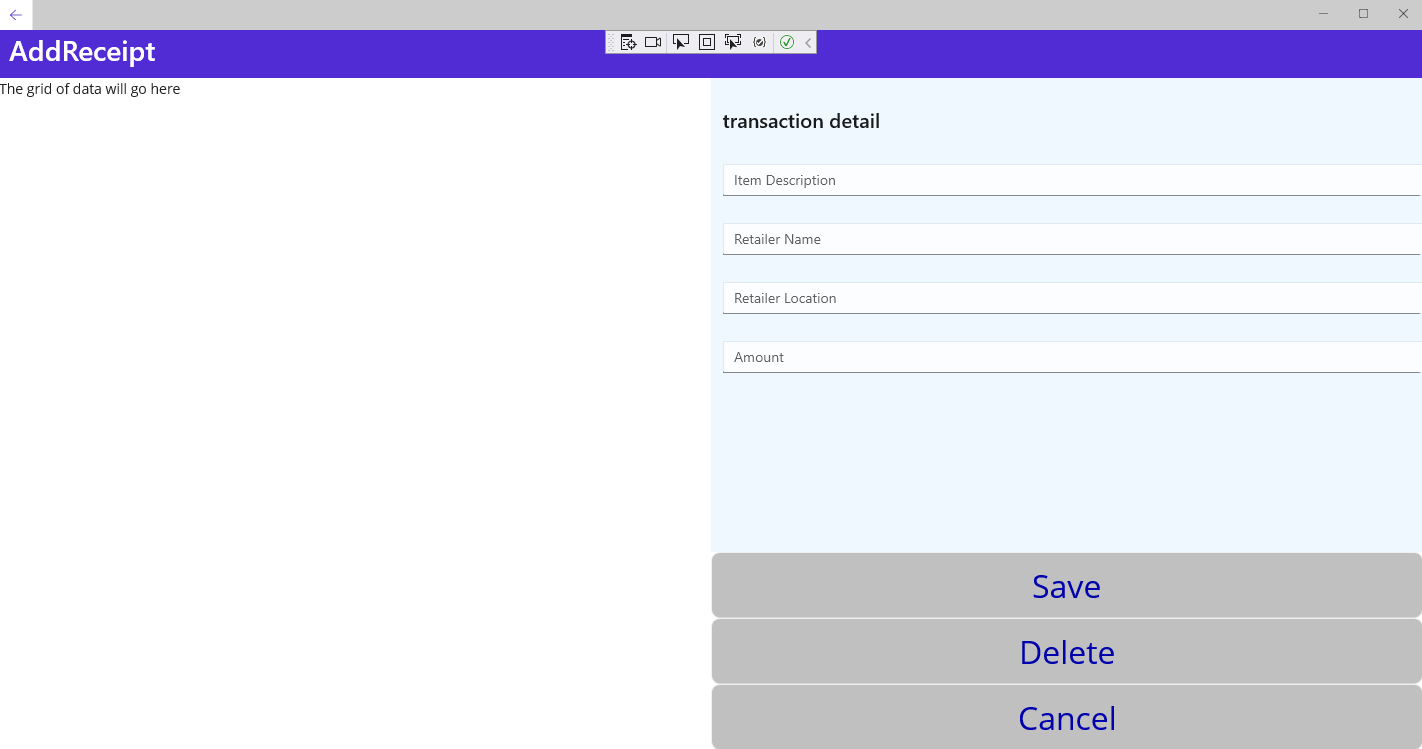
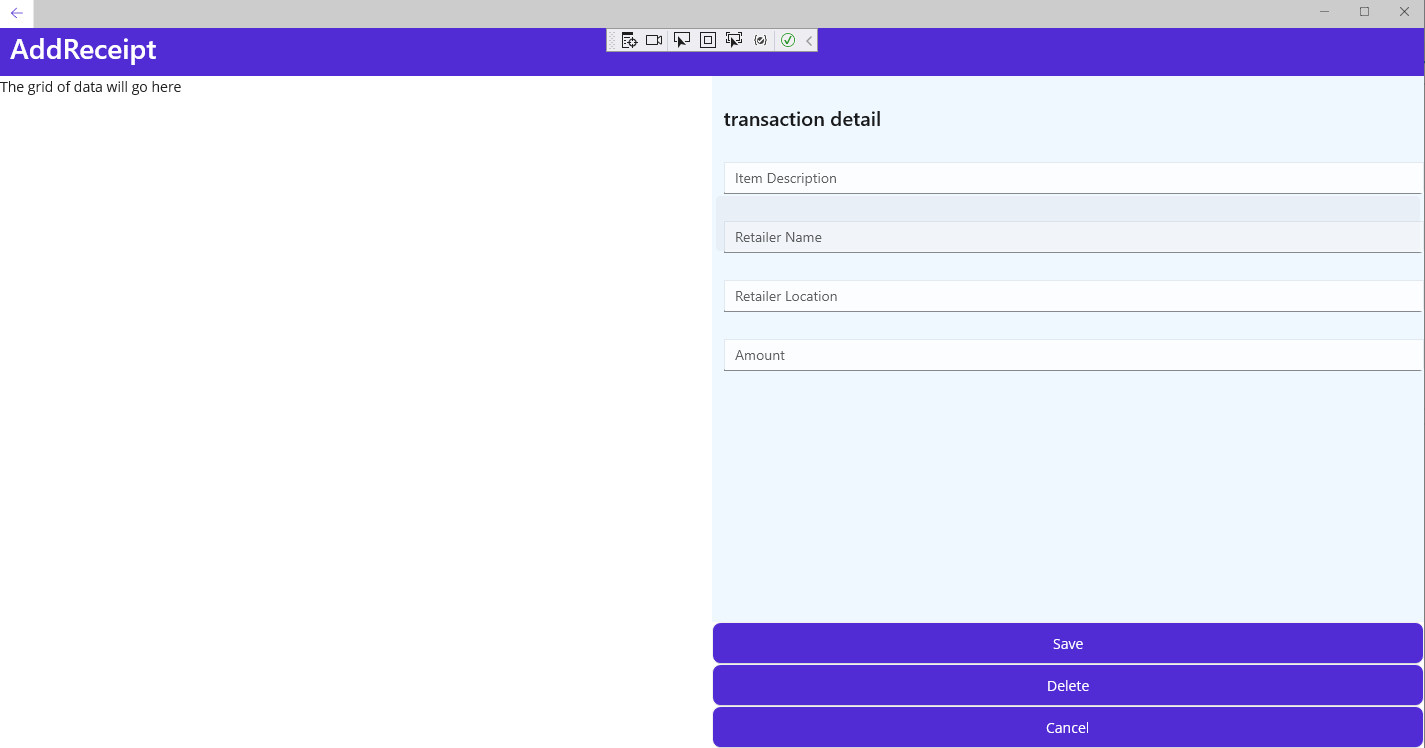
Updated content

diff --git a/notes/styling-net-maui-app.md b/notes/styling-net-maui-app.md
@@ -4,29 +4,33 @@
 
 ## It all starts somewhere
 
-So I want to write a small application using .NET MAUI. The application will run on Windows - I'm not going down the road of getting it to run on Android as yet. I personally feel a .NET MAUI app can be a replacement for a WinForms application. Why not right? So my idea for an application is to capture transaction details from my trips to the shop. I think it could be interesting to build up a dataset of shopping trips over an extended period of time. I am calling it ConsumerAgent.
+As part of the learning process I want to create a small application using .NET MAUI. The application will run on Windows for the time being. .NET MAUI is a great alternative to WinForms or WPF. Why not right? The idea for my application is super simple - create an application to capture the receipts from all my shopping trips to the various retail shops - lets call it ConsumerAgent. I think it could be interesting to build up a dataset of shopping trips over an extended period of time. Imagine seeing the price of bread over a period of time or any other grocery item for that matter.
 
-So to start I'll create two pages in my .NET MAUI app - a page to list the most recent retailer trips as well. The second page will allow me to capture the transactions.
+The application will start off consisting of two pages. The first page will list my most recent retailer trips. The second page will allow me to capture the transaction receipts.
 
 I created a basic wireframe just to aid my planning of the application. It helps thinking up front just a bit. It doesn't have to be pretty to be effective.
 
 ![Wireframe](img/wireframe.png)
 
-The purpose of the application is to learn about the features of .NET MAUI - bit by bit. So as I go along I can create features using specific parts of .NET MAUI. The first thing I would like to look at is styling. I would like to understand the basic syntax of the styling. Styling refers to the font, colours and general appearance of elements in the application. 
+The purpose of building the application is to learn about the features of .NET MAUI - bit by bit. The idea is to build features in the app targeting specific aspects of .NET MAUI. It feels as if there is a lot to learn. The first thing I would like to look at is styling. I would like to understand the basic syntax of the styling. Styling refers to the font, colours and general appearance of elements in the application. Why styling? Well in the learning I did up to this point I found the styling syntax in the XAML as something of interest. It could be a desire to understand the XAML syntax better as well. I also found the concept of the Resource Dictionary interesting. 
 
-## Setting up the pages
+## Setting it up
 
-One of the great features of .NET MAUI is this idea of pages. They kind of look like separate forms - if you were to think of them in WinForms terms. Except they act like pages using navigation. The default .NET MAUI project contains a MainPage to start off with - but you are not restricted to use the MainPage. 
+Before I can even get to the styling we have to shave the yak a bit.
+
+I have to start by creating the pages. One of the great features of .NET MAUI is this idea of pages. They kind of look like separate forms - if you were to think of them in WinForms terms. Except they act like pages in a typical web application - they use actual navigation. You can even pass query parameters to a page. Being able to think in terms of "pages" in a desktop app feels weird. The benefit of using pages also means isolating view logic. 
+
+When you create a .NET MAUI project from the CLI or Visual Studio it contains a MainPage - but you are not restricted to use the MainPage. In fact I decided to delete it. You can define the startup page in the AppShell. In the example below the MainPage is used. 
 
 ![App Shell XAML](img/app-shell-xaml.png)
 
-Just as a sidenote - what is XAML again? Why use it? [The official documentation gives a decent overview](https://docs.microsoft.com/en-us/dotnet/maui/xaml/). But basically as I understand it everything you can do in XAML can be done in code. XAML does allow you to separate the view component of your code from the events or interactions. In your XAML you can define a button - it is then hooked up to a click event on the code behind (.cs) file. In a sense Angular also works in a similar way if you think about it. When you create an Angular component it has two distinct parts - a component file containing the TypeScript (ts) alongside a component file containing the HTML. In the TypeScript file you define all the events for the HTML view. A difference though is that Angular supports directives for loops and conditions - XAML does not. 
+Just as a sidenote - what is XAML again? Why use it? [The official documentation gives a decent overview](https://docs.microsoft.com/en-us/dotnet/maui/xaml/). But basically as I understand it everything you can do in XAML can be done in code. XAML does allow you to separate the view component of your code from the events or interactions. In your XAML you can define a button - it is then hooked up to a click event in the code behind (.cs) file. In a sense Angular also works in a similar way if you think about it. When you create an Angular component it has two distinct parts - a component file containing the TypeScript (ts) alongside a component file containing the HTML. In the TypeScript file you define all the events for the HTML view. A difference though is that Angular supports directives for loops and conditions - XAML does not support any conditional elements. 
 
-In the App Shell you can hook up another page to be the startup page by changing the route. I created two pages, `RetailerTrips` and `AddReceipt`. I want `RetailerTrips` to be the startup page so I can update the route in the App Shell.
+I deleted the default MainPage. I then created two pages, `RetailerTrips` and `AddReceipt`. I want `RetailerTrips` to be the startup page so I updated the route in the App Shell XAML.
 
 ![App Shell XAML](img/app-shell-xaml-1.png)
 
-Layouts are another topic I would love to understand better - but for now I'll just use grid layouts. Its important to understand a grid is a layout component - not a tabular data component. 
+Layouts are another topic I would love to understand better - but for now I'll just use grid layouts. All I know at this stage it is important to understand a grid is a layout component - not a tabular data component. 
 
 ## BindingContext - ICommand
 
@@ -53,3 +57,27 @@ If I run the code I can click on the `Add Transactions` button and it navigates 
 ![AddReceipt Page](img/add-receipt-page.png)
 
 Still a lot of work to do to make the application look and work great. But it would be fair to say MichaelAngelo did not end up with a carved angel from the start. 
+
+## Lets get onto the styling
+
+Styling a .NET MAUI application can either be at a component level, a page level or at an application level. Styling a .NET MAUI component directly is probably the least maintainable. If, for instance, you set the color on a button at the component level it means having to edit the value each time a change occurs. The second approach is to apply styling at a page level. You can add a ResourceDictionary at the page level. 
+
+![Page Level Resource Dictionary](img/page-level-resource-dictionary.png)
+
+The third approach is to use application wide styling by adding a ResourceDictionary to App.xaml.
+
+![Application Resource Dictionary](img/application-resource-dictionary.png)
+
+In the example above I created a style called `baseButtonStyle`. It sets the font size to 32. It also sets the text and background colors. You can then use the style in your page. In the `AddReceipt` page I can reference the styles.
+
+![Base Button Style](img/basebuttonstyle.png)
+
+After applying the styles you can see the buttons have changed.
+
+![AddReceipt Page](img/add-receipt-page-after.png)
+
+I can apply the styling to the button on the `RetailerTrips` page as well. 
+
+![Retailer Trips Page](img/retailer-trips-page-after.png)
+
+Not pretty - but it conveys the concept clearly.
